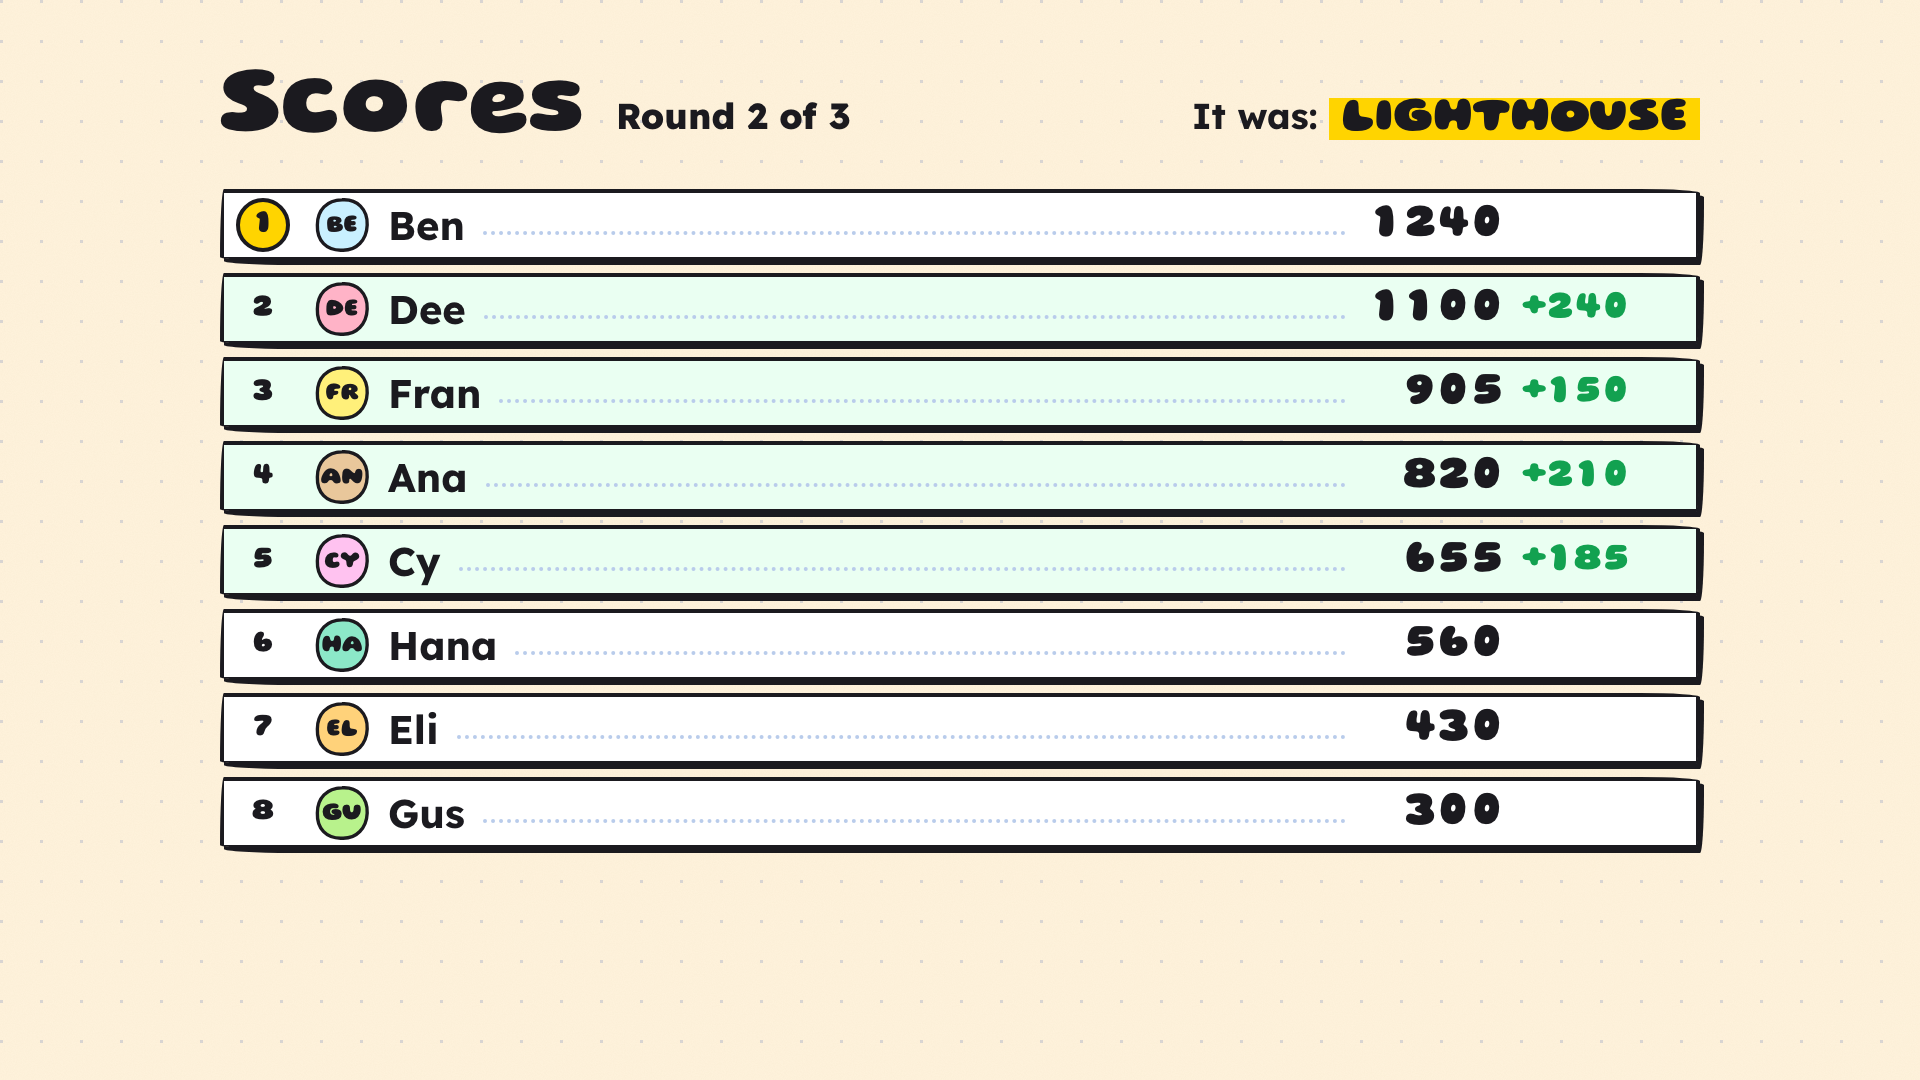
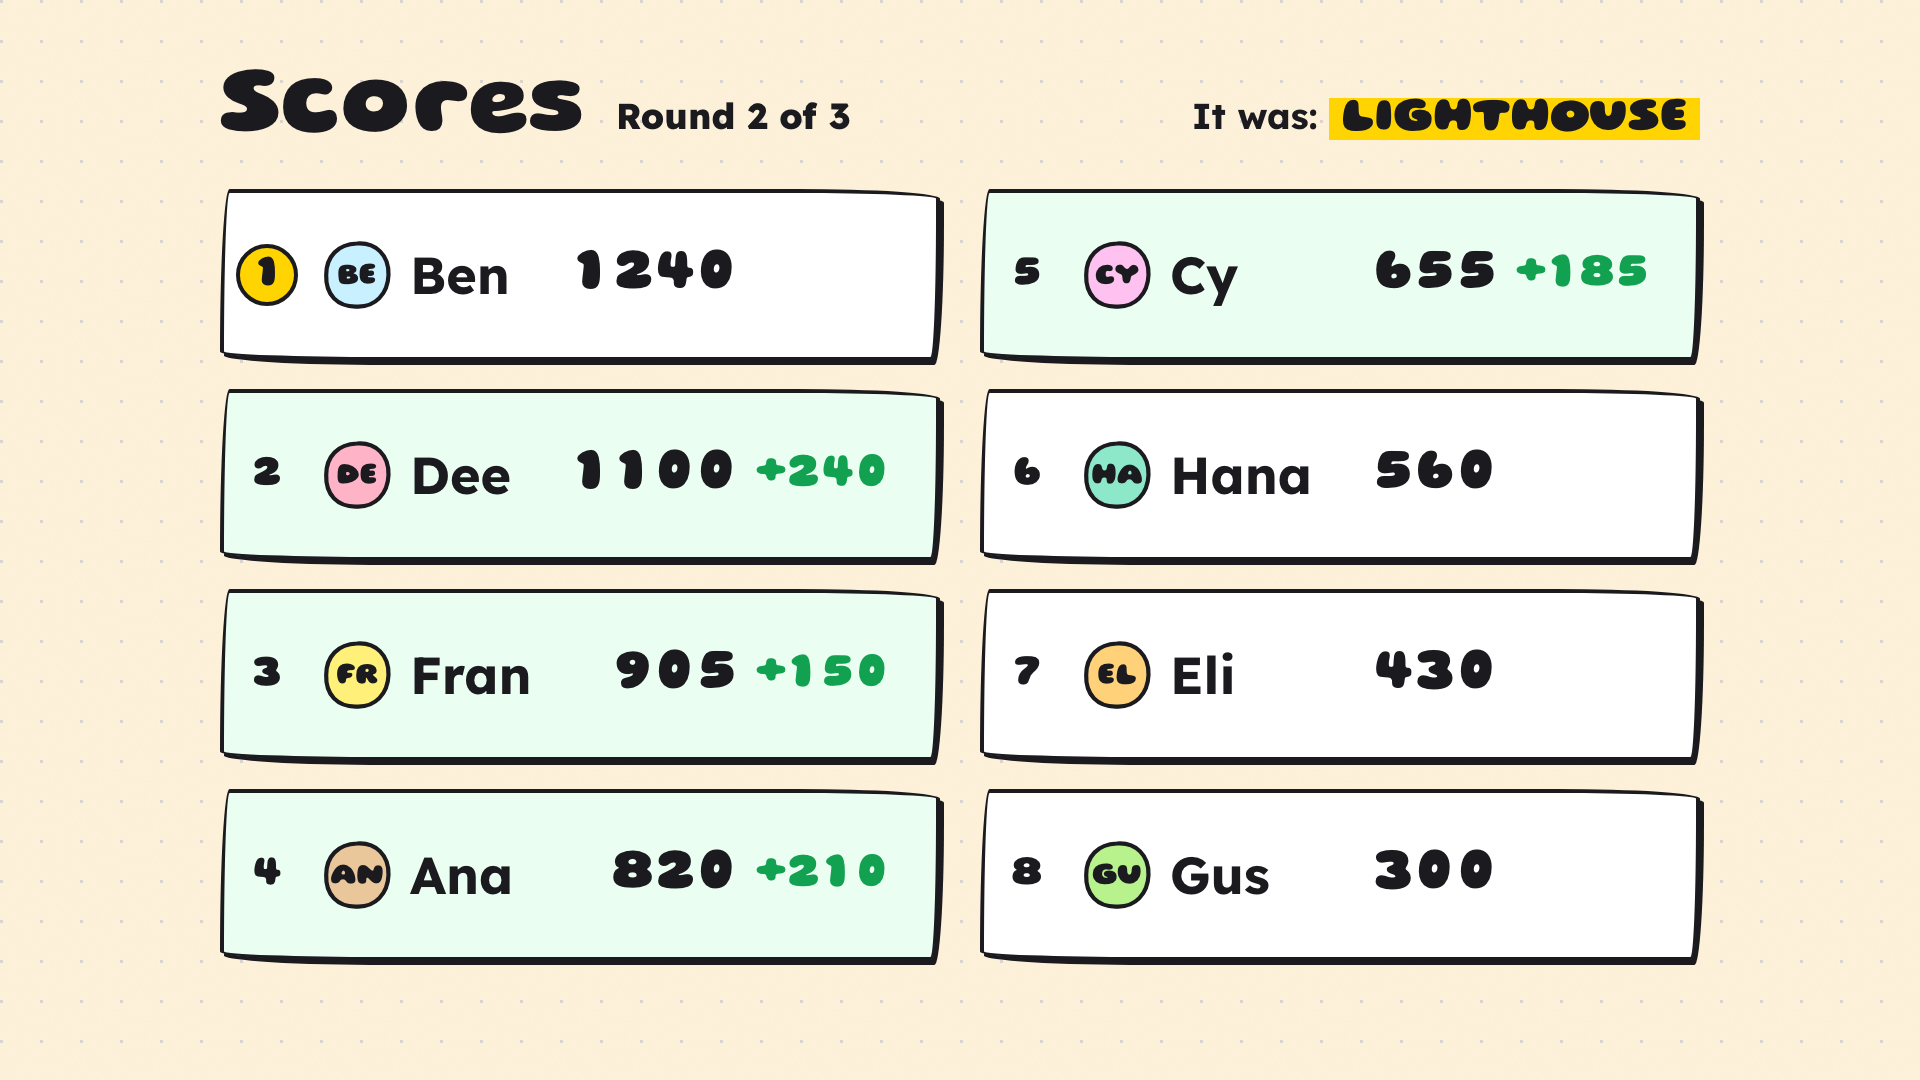
TV: classic scoreboard fills the stage for 2..12 players; revealed word always on one line
Rows and type scale with the player count (one big column up to 7, two columns from 8, at most 20),
rank changes slide in x and y. The reveal word takes the top bar's left + middle and is sized so the
longest classic entry ("elephant in the room") fits on one line at 74 px (tested over the whole pack);
spaces keep their width. The board header's word shrinks instead of wrapping.

Changed region(s): [[0.0938, 0.1528, 0.9062, 0.9167], [0.8438, 0.1528, 0.875, 0.1833]]

diff --git a/src/client/tv/Board.tsx b/src/client/tv/Board.tsx
@@ -4,12 +4,10 @@ import type { CSSProperties } from "react";
 import { TEAM_COLORS } from "../brand";
 import type { TvView } from "../../shared/protocol";
 import { CountUp, PlayerAvatar } from "./bits";
-import { boardRows, roundLabel, teamBoardLayout, teamRoster, teamRows } from "./derive";
+import { boardRows, playerBoardLayout, revealFontSize, roundLabel, slotOf, teamBoardLayout, teamRoster, teamRows } from "./derive";
 
 type Vars = CSSProperties & Record<`--${string}`, string>;
 
-const ROWS = 10;
-const ROW_H = 84;
 
 function Header({ view }: { view: TvView }) {
   const word = view.lastTurn?.word ?? "";
@@ -19,31 +17,50 @@ function Header({ view }: { view: TvView }) {
       <span className="tv-board-round">{roundLabel(view)}</span>
       {word ? (
         <span className="tv-board-word">
-          It was: <b>{word.toUpperCase()}</b>
+          It was: <b style={{ fontSize: `${Math.min(48, revealFontSize(word, 620))}px` }}>{word.toUpperCase()}</b>
         </span>
       ) : null}
     </header>
   );
 }
 
+/** Height the score rows may fill (the board is 980px tall, minus its header). */
+const PLAYER_AREA = 800;
+/** Width of one column of rows (the board is 1480px wide). */
+const COL_W = { 1: 1480, 2: 720 } as const;
+const COL_GAP = 40;
+
 function PlayerBoard({ view }: { view: TvView }) {
   const rows = boardRows(view.players, view.lastTurn?.gains ?? {});
-  const shown = rows.filter((r) => r.to < ROWS);
+  const layout = playerBoardLayout(rows.length, PLAYER_AREA);
+  const shown = rows.filter((r) => r.to < layout.shown);
   const more = rows.length - shown.length;
+  const perCol = Math.ceil(layout.shown / layout.cols);
+  const colW = COL_W[layout.cols];
+  const pos = (index: number) => {
+    const s = slotOf(Math.min(index, layout.shown - 1), layout);
+    return { x: s.col * (colW + COL_GAP), y: s.row * layout.rowH };
+  };
+  const listStyle: Vars = { height: `${perCol * layout.rowH}px`, "--row-font": `${layout.font}px`, "--row-h": `${layout.rowH}px` };
   return (
     <div className="tv-board" data-focal="board">
       <Header view={view} />
-      <ol className="tv-board-rows" style={{ height: `${Math.min(rows.length, ROWS) * ROW_H}px` }}>
+      <ol className={layout.cols === 2 ? "tv-board-rows is-two" : "tv-board-rows"} style={listStyle}>
         {shown.map((r) => {
+          const to = pos(r.to);
+          const from = pos(r.from);
           const style: Vars = {
-            top: `${r.to * ROW_H}px`,
-            "--dy": `${(Math.min(r.from, ROWS) - r.to) * ROW_H}px`,
+            top: `${to.y}px`,
+            left: `${to.x}px`,
+            width: `${colW}px`,
+            "--dx": `${from.x - to.x}px`,
+            "--dy": `${from.y - to.y}px`,
             animationDelay: `${r.to * 60}ms, ${350 + r.to * 30}ms`,
           };
           return (
             <li key={r.seat.id} className={r.gain > 0 ? "tv-board-row has-gain" : "tv-board-row"} style={style}>
               <span className="tv-rank">{r.rank}</span>
-              <PlayerAvatar seat={r.seat} size={56} />
+              <PlayerAvatar seat={r.seat} size={Math.round(layout.font * 1.35)} />
               <span className="tv-board-name">{r.seat.name}</span>
               <span className="tv-board-dots" aria-hidden="true" />
               <span className="tv-board-pts tabular">{r.seat.score}</span>

diff --git a/public/css/tv.css b/public/css/tv.css
@@ -771,10 +771,12 @@ html.tv #root {
   font-size: 96px;
 }
 .tv-board-round {
+  white-space: nowrap;
   font-size: 36px;
   font-weight: 800;
 }
 .tv-board-word {
+  white-space: nowrap;
   margin-left: auto;
   font-size: 36px;
   font-weight: 700;
@@ -782,7 +784,6 @@ html.tv #root {
 .tv-board-word b {
   font-family: var(--font-display);
   font-weight: 900;
-  font-size: 48px;
   padding: 0 12px;
   background: var(--hi-yellow);
 }
@@ -793,17 +794,16 @@ html.tv #root {
   list-style: none;
 }
 .tv-board-row {
+  --dx: 0px;
   --dy: 0px;
   position: absolute;
-  left: 0;
-  right: 0;
-  height: 72px;
+  height: calc(var(--row-h) - max(10px, var(--row-h) * 0.14));
   display: grid;
-  grid-template-columns: 60px 56px minmax(0, auto) 1fr 140px 150px;
+  grid-template-columns: calc(var(--row-font) * 1.3) auto minmax(3.5em, max-content) minmax(0, 1fr) auto calc(var(--row-font) * 2.6);
   align-items: center;
-  gap: 18px;
+  gap: calc(var(--row-font) * 0.35);
   padding: 0 24px 0 12px;
-  font-size: var(--fs-name);
+  font-size: var(--row-font);
   font-weight: 700;
   background: var(--sheet);
   border: var(--line-thin) solid var(--ink);
@@ -817,8 +817,9 @@ html.tv #root {
   background: #eafff2;
 }
 .tv-board-row .tv-rank {
-  width: 54px;
-  height: 54px;
+  width: calc(var(--row-font) * 1.2);
+  height: calc(var(--row-font) * 1.2);
+  font-size: calc(var(--row-font) * 0.85);
   display: grid;
   place-items: center;
   border-radius: 50%;
@@ -832,7 +833,7 @@ html.tv #root {
   to { opacity: 1; }
 }
 @keyframes tv-row-move {
-  from { transform: translateY(var(--dy)); }
+  from { transform: translate(var(--dx), var(--dy)); }
   to { transform: none; }
 }
 .tv-board-name {
@@ -848,13 +849,13 @@ html.tv #root {
 .tv-board-pts {
   font-family: var(--font-display);
   font-weight: 900;
-  font-size: 48px;
+  font-size: calc(var(--row-font) * 1.15);
   text-align: right;
 }
 .tv-board-gain {
   font-family: var(--font-display);
   font-weight: 900;
-  font-size: 40px;
+  font-size: calc(var(--row-font) * 0.95);
   color: var(--marker-green);
 }
 .tv-teamboard {
@@ -1089,4 +1090,23 @@ html.tv #root {
   .tv-confetti {
     display: none;
   }
+}
+
+/* reveal: the word takes the top bar's left + middle, on one line (never wraps; size from revealFontSize) */
+.tv-top-left.is-hidden {
+  display: none;
+}
+.tv-top-mid.is-wide {
+  grid-column: 1 / 3;
+}
+.tv-word-card {
+  white-space: nowrap;
+}
+
+/* two columns: no leader dots, the name takes the slack, room for a 4-digit gain */
+.tv-board-rows.is-two .tv-board-row {
+  grid-template-columns: calc(var(--row-font) * 1.3) auto minmax(0, 1fr) auto calc(var(--row-font) * 3);
+}
+.tv-board-rows.is-two .tv-board-dots {
+  display: none;
 }

diff --git a/src/client/tv/derive.test.ts b/src/client/tv/derive.test.ts
@@ -10,7 +10,10 @@ import {
   maskScale,
   maskWords,
   nameOf,
+  playerBoardLayout,
   podiumOrder,
+  revealFontSize,
+  slotOf,
   podiumPlayers,
   teamBoardLayout,
   teamRoster,
@@ -25,6 +28,7 @@ import {
   teamRows,
   timerFraction,
 } from "./derive";
+import { classic } from "../../game/words/packs/classic";
 import { FIXTURE_NAMES, fixture, isFixtureName } from "./fixtures";
 
 const seat = (id: string, score: number, extra: Partial<Seat> = {}): Seat => ({
@@ -270,5 +274,52 @@ describe("team board layout", () => {
   it("caps very few teams at a comfortable size", () => {
     expect(teamBoardLayout(2, AREA).barFont).toBe(96);
     expect(teamBoardLayout(1, AREA).rowH).toBeLessThanOrEqual(AREA);
+  });
+});
+
+describe("player board layout", () => {
+  const AREA = 800;
+  it("fills the stage for 2..12 players: one big column for few, two columns for many", () => {
+    for (let n = 2; n <= 12; n++) {
+      const l = playerBoardLayout(n, AREA);
+      const rows = Math.ceil(n / l.cols);
+      expect(l.shown).toBe(n);
+      expect(rows * l.rowH).toBeLessThanOrEqual(AREA);
+      expect(rows * l.rowH).toBeGreaterThanOrEqual(AREA * 0.5);
+      expect(l.font).toBeGreaterThanOrEqual(34);
+      expect(l.font).toBeLessThan(l.rowH);
+    }
+    expect(playerBoardLayout(4, AREA).cols).toBe(1);
+    expect(playerBoardLayout(4, AREA).font).toBeGreaterThan(playerBoardLayout(12, AREA).font);
+    expect(playerBoardLayout(12, AREA).cols).toBe(2);
+    // a half-width column can't take the one-column type size: names must still fit
+    for (let n = 8; n <= 12; n++) expect(playerBoardLayout(n, AREA).font).toBeLessThanOrEqual(52);
+  });
+
+  it("shows at most 20 (two columns of 10) in a crowd", () => {
+    const l = playerBoardLayout(60, AREA);
+    expect(l.cols).toBe(2);
+    expect(l.shown).toBe(20);
+    expect(l.rowH * 10).toBeLessThanOrEqual(AREA);
+  });
+
+  it("fills columns top to bottom", () => {
+    const l = playerBoardLayout(10, AREA);
+    expect(slotOf(0, l)).toEqual({ col: 0, row: 0 });
+    expect(slotOf(4, l)).toEqual({ col: 0, row: 4 });
+    expect(slotOf(5, l)).toEqual({ col: 1, row: 0 });
+  });
+});
+
+describe("reveal word", () => {
+  const WIDTH = 1100;
+  it("fits every classic word on one line, never breaking inside a word, and stays big", () => {
+    for (const { word } of classic.words) {
+      const size = revealFontSize(word, WIDTH);
+      expect(word.length * size * 0.74).toBeLessThanOrEqual(WIDTH);
+      expect(size).toBeGreaterThanOrEqual(70);
+    }
+    expect(revealFontSize("cat", WIDTH)).toBe(130);
+    expect(revealFontSize("elephant in the room", WIDTH)).toBe(74);
   });
 });

diff --git a/src/client/tv/Frame.tsx b/src/client/tv/Frame.tsx
@@ -5,7 +5,7 @@ import { TEAM_COLORS } from "../brand";
 import { Logo } from "../brand";
 import type { TvView } from "../../shared/protocol";
 import { CountUp, Mask, PlayerAvatar, TimerRing } from "./bits";
-import { gainRows, guessProgress, isUrgent, nameOf, revealCaption, roundLabel, standings, teamRows } from "./derive";
+import { gainRows, revealFontSize, guessProgress, isUrgent, nameOf, revealCaption, roundLabel, standings, teamRows } from "./derive";
 import { Feed } from "./Feed";
 import { Sheet } from "./Sheet";
 
@@ -116,9 +116,8 @@ function WhoGotIt({ view }: { view: TvView }) {
   );
 }
 
-function wordFontSize(word: string): number {
-  return Math.round(Math.min(120, 1020 / Math.max(1, word.length * 0.6)));
-}
+/** Text width the revealed word may use: the top bar's left + middle (1424px) less "It was:", padding, border. */
+const REVEAL_TEXT_W = 1100;
 
 export function Frame({ view, seconds, fraction }: { view: TvView; seconds: number; fraction: number }) {
   const reveal = view.phase === "reveal" && view.lastTurn !== null;
@@ -129,20 +128,20 @@ export function Frame({ view, seconds, fraction }: { view: TvView; seconds: numb
   return (
     <div className={`tv-frame phase-${view.phase}`}>
       <header className="tv-top">
-        <div className="tv-top-left">
+        <div className={reveal ? "tv-top-left is-hidden" : "tv-top-left"}>
           <Logo variant="line" width={300} />
           <span className="tv-round">{roundLabel(view)}</span>
         </div>
-        <div className="tv-top-mid">
+        <div className={reveal ? "tv-top-mid is-wide" : "tv-top-mid"}>
           {view.phase === "drawing" && view.mask ? <Mask mask={view.mask} /> : null}
           {view.phase === "picking" ? <p className="headline tv-top-headline">Get ready to guess!</p> : null}
           {reveal ? (
             <div className="tv-word" key={`word-${view.lastTurn?.turn ?? 0}`}>
               <span className="tv-word-label">It was:</span>
-              <span className="card tv-word-card drop-in" style={{ fontSize: `${wordFontSize(word)}px` }}>
+              <span className="card tv-word-card drop-in" style={{ fontSize: `${revealFontSize(word, REVEAL_TEXT_W)}px` }}>
                 {[...word.toUpperCase()].map((ch, i) => (
                   <span key={i} className="stamp" style={{ animationDelay: `${420 + i * 60}ms` }}>
-                    {ch === " " ? " " : ch}
+                    {ch === " " ? "\u00a0" : ch}
                   </span>
                 ))}
               </span>

diff --git a/src/client/tv/derive.ts b/src/client/tv/derive.ts
@@ -224,3 +224,29 @@ export function teamBoardLayout(n: number, area: number): TeamBoardLayout {
   const topPlayers = rowH >= 260 ? 4 : rowH >= 180 ? 3 : rowH >= 140 ? 2 : rowH >= 120 ? 1 : 0;
   return { rowH, barFont, topPlayers };
 }
+
+export type PlayerBoardLayout = { cols: 1 | 2; rowH: number; font: number; shown: number };
+
+/** Scoreboard rows sized to fill `area` px: one big column up to 7 players, two columns from 8, at most 20. */
+export function playerBoardLayout(n: number, area: number): PlayerBoardLayout {
+  const cols = n >= 8 ? 2 : 1;
+  const shown = Math.min(n, 20);
+  const rows = Math.max(1, Math.ceil(shown / cols));
+  const rowH = Math.floor(Math.min(220, area / rows));
+  const font = Math.max(34, Math.min(cols === 2 ? 52 : 80, Math.round(rowH * 0.4)));
+  return { cols, rowH, font, shown };
+}
+
+/** Where row `index` sits: columns fill top to bottom. */
+export function slotOf(index: number, l: PlayerBoardLayout): { col: number; row: number } {
+  const perCol = Math.max(1, Math.ceil(l.shown / l.cols));
+  return { col: Math.floor(index / perCol), row: index % perCol };
+}
+
+/** Gluten 900 caps are about 0.74 em wide. */
+const REVEAL_EM = 0.74;
+
+/** The revealed word's type size: as big as fits `width` px on ONE line (it never wraps). */
+export function revealFontSize(word: string, width: number): number {
+  return Math.min(130, Math.floor(width / (Math.max(1, word.length) * REVEAL_EM)));
+}

diff --git a/src/client/tv/fixtures.ts b/src/client/tv/fixtures.ts
@@ -16,7 +16,10 @@ export const FIXTURE_NAMES = [
   "drawing-teams",
   "drawing-crowd",
   "reveal",
+  "reveal-long",
   "scoreboard",
+  "scoreboard-4",
+  "scoreboard-12",
   "scoreboard-teams",
   "scoreboard-teams-2",
   "scoreboard-teams-8",
@@ -193,6 +196,12 @@ export function fixture(name: FixtureName, now: number): TvView {
       return { ...drawing(players(52, (i) => ({ score: (i * 97) % 1500 }))), mask: "i__ c____ c__e" };
     case "reveal":
       return { ...drawing(classic), phase: "reveal", mask: "", startedAt: now - 500, endsAt: now + 6500, lastTurn };
+    case "reveal-long":
+      return { ...drawing(classic), phase: "reveal", mask: "", startedAt: now - 500, endsAt: now + 6500, lastTurn: { ...lastTurn, word: "elephant in the room" } };
+    case "scoreboard-4":
+      return { ...drawing(classic.slice(0, 4)), phase: "reveal", mask: "", startedAt: now - 4000, endsAt: now + 3000, lastTurn: { ...lastTurn, gains: { p0: 210, p3: 240 } } };
+    case "scoreboard-12":
+      return { ...drawing(players(12, (i) => ({ score: (i * 211) % 1400 }))), phase: "reveal", mask: "", startedAt: now - 4000, endsAt: now + 3000, lastTurn };
     case "scoreboard":
       return { ...drawing(classic), phase: "reveal", mask: "", startedAt: now - 4000, endsAt: now + 3000, lastTurn };
     case "scoreboard-teams":
